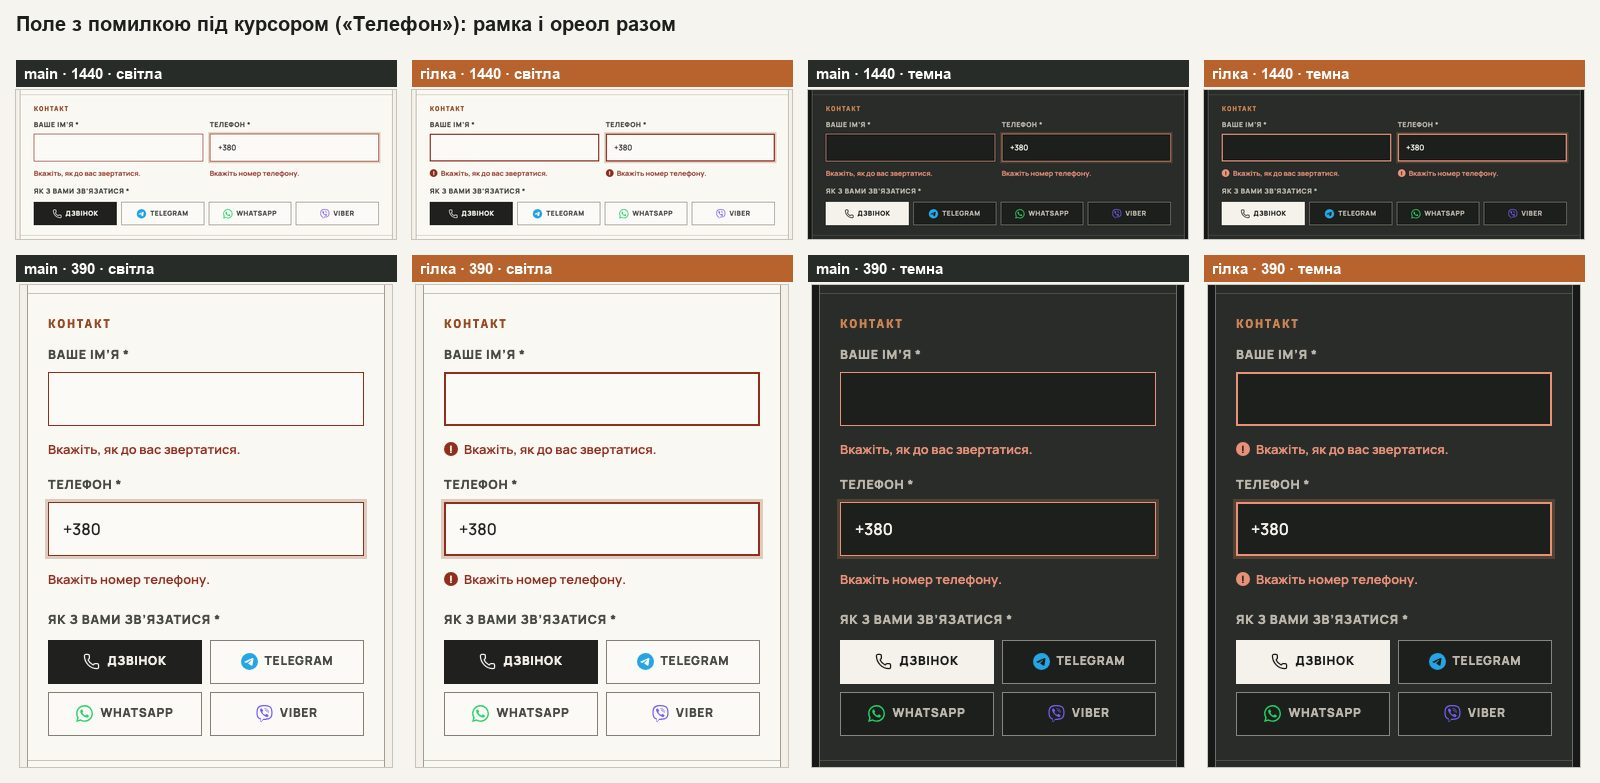
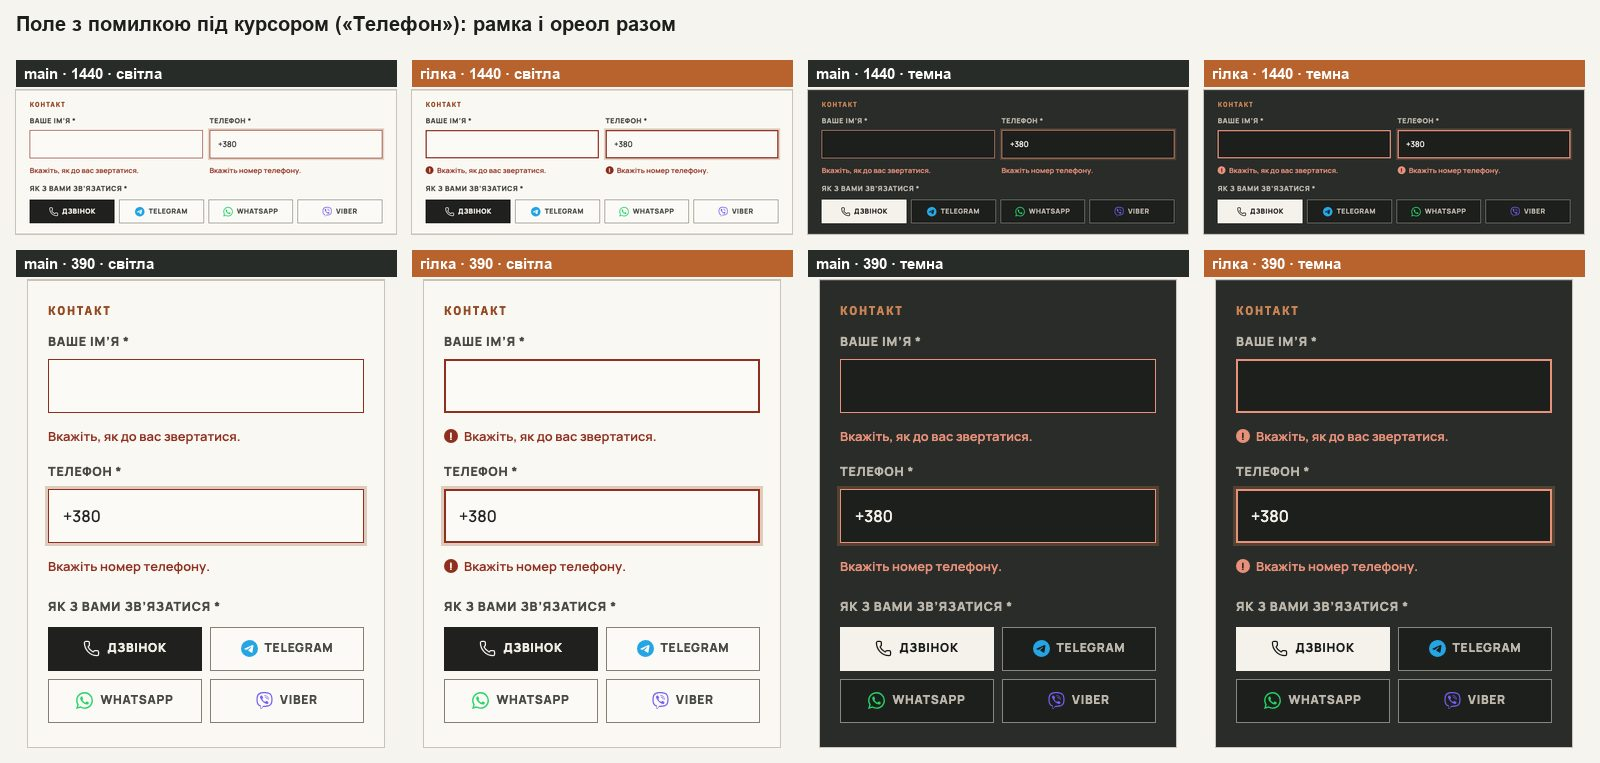
fix(form): знак «!» забирає місце лише в першому рядку, знак згоди — у колонці квадратика (W3-07, правка після рев’ю)
Перша версія ставила знак окремою колонкою в кожному рядку повідомлення,
тож на /pro-nas форма з помилками ставала вищою на 18 px на 98 ширинах
з 1601 (322–341, 367–386, 464–483, 801–838 px). Тепер знак під полем
плаває в першому рядку, як у прототипі брифу, а знак згоди стоїть під
квадратиком: зайвий рядок лишився тільки на 367–386 px, як і в прототипі.
Новий тест перевіряє рядки повідомлень на 375, 470, 820 і 1440 px;
handoff і кадри оновлено.

diff --git a/app/globals.css b/app/globals.css
@@ -597,7 +597,9 @@ body:has(main:is([data-home="v2"], .about-page)) {
 .inquiry-consent input:focus-visible { outline: 3px solid var(--focus-ring); outline-offset: 3px; }
 .inquiry-consent > span { color: var(--color-text-muted) !important; font-size: 13px !important; font-weight: 500 !important; line-height: 1.55; letter-spacing: 0 !important; text-transform: none !important; }
 .inquiry-consent a { color: var(--color-accent-strong); font-weight: 750; text-decoration: underline; text-underline-offset: 3px; }
-.inquiry-consent > small { grid-column: 2; margin-top: -4px; color: var(--color-error); font-size: 13px; font-weight: 750; line-height: 1.45; }
+/* the message spans both columns, mirroring them: its «!» (W3-07, beside .inquiry-field-error) under the box, its words
+   under the text at their full width */
+.inquiry-consent > small { display: grid; grid-column: 1 / -1; grid-template-columns: 18px minmax(0, 1fr); column-gap: 10px; align-items: start; margin-top: -4px; color: var(--color-error); font-size: 13px; font-weight: 750; line-height: 1.45; }
 .inquiry-consent.is-invalid { padding: 10px; background: color-mix(in srgb, var(--color-error) 8%, transparent); border-left: 3px solid var(--color-error); }
 .inquiry-submit-group { min-width: 0; }
 /* Turnstile (interaction-only): zero-height unless Cloudflare asks for an interaction. Its widget
@@ -1711,19 +1713,23 @@ a.route-service:focus-visible { color: var(--color-dark-text); --color-accent-st
 
 /* The form's fields keep their message under them while it stands, as the consent does (07.10); a field focused to fix
    it lands with its label clear of the fixed header, not under it */
-.inquiry-field-error { margin-top: 6px; color: var(--color-error); font: 600 13px/1.4 var(--font-manrope), sans-serif; }
+.inquiry-field-error { display: flow-root; margin-top: 6px; color: var(--color-error); font: 600 13px/1.4 var(--font-manrope), sans-serif; }
 .inquiry-form label.is-invalid :is(input, select) { border-color: var(--color-error); }
 /* An error is told from the copper titles beside it by more than its colour, which stays (25.10, W3-07 · PDO-86 B): each
-   message, the consent's too, opens with a «!» in a 14 px disc of the error colour — the words beside it, not under it —
-   and an invalid field is framed 2 px: its 1 px border and 1 px inside it, so the field does not grow. With the cursor in
-   it the focus halo stays round the frame. The mark is not read out: the message says it. Forced colours would paint the
-   disc in the page's own colour, so there it takes the text's. */
-.inquiry-field-error, .inquiry-consent > small { display: grid; grid-template-columns: 14px minmax(0, 1fr); column-gap: 6px; align-items: start; }
+   message, the consent's too, opens with a «!» in a 14 px disc of the error colour, and an invalid field is framed 2 px:
+   its 1 px border and 1 px inside it, so the field does not grow. With the cursor in it the focus halo stays round the
+   frame. The mark is not read out: the message says it. Forced colours would paint the disc in the page's own colour, so
+   there it takes the text's.
+   A field's mark floats on the message's first line, as in the brief's frame: it takes 20 px from that line only, and no
+   line grows (the message is a flow root, so the float stays in it). The consent's mark stands in the checkbox's column,
+   so its words keep their full width (sweep 320–1920 px). */
 .inquiry-field-error::before, .inquiry-consent > small::before {
   display: grid; place-items: center; width: 14px; height: 14px; margin-top: 2px; border-radius: 50%;
   color: var(--color-bg); background: var(--color-error); font: 800 10px/1 var(--font-manrope), sans-serif;
   content: '!'; content: '!' / '';
 }
+.inquiry-field-error::before { float: left; margin-right: 6px; }
+.inquiry-consent > small::before { justify-self: center; }
 @media (forced-colors: active) {
   .inquiry-field-error::before, .inquiry-consent > small::before { forced-color-adjust: none; color: Canvas; background: CanvasText; }
 }

diff --git a/tests/e2e/inquiry-error-focus.spec.ts b/tests/e2e/inquiry-error-focus.spec.ts
@@ -141,6 +141,55 @@ for (const scheme of ['light', 'dark'] as const) {
   });
 }
 
+// The mark costs a message as little room as it can (review 25.10): a field's mark floats on the first line only, as in the
+// brief's frame, and the consent's mark stands in the checkbox's column. At 367–386 px the direction message of /pro-nas
+// («Оберіть напрям робіт або «Ще не визначено».») runs onto a second line, as it does in the brief's prototype: 375 shows
+// that second line starting under the mark. 470 and 820 are where a mark beside the consent's words had pushed them onto
+// one more line.
+test('the mark takes room on the first line only, no line grows, and the consent\'s words keep their full width', async ({ page }) => {
+  for (const width of [375, 470, 820, 1440]) {
+    const form = await openForm(page, width);
+    await raiseErrors(form);
+    await page.evaluate(() => (document.activeElement as HTMLElement | null)?.blur());
+    const messages = await form.locator('.inquiry-field-error, .inquiry-consent > small').evaluateAll(async (elements) => {
+      // the reduced-motion reset gives a new message's mark a .01ms transition: measure two frames on, where it has landed
+      await new Promise((resolve) => requestAnimationFrame(() => requestAnimationFrame(resolve)));
+      return elements.map((message) => {
+        const range = document.createRange();
+        range.selectNodeContents(message);
+        const lines = new Map<number, number>();
+        for (const rect of range.getClientRects()) {
+          if (rect.width === 0) continue;
+          const top = Math.round(rect.top);
+          lines.set(top, Math.min(lines.get(top) ?? Infinity, rect.left));
+        }
+        const box = message.getBoundingClientRect();
+        const consentText = message.closest('.inquiry-consent')?.querySelector(':scope > span');
+        return {
+          text: message.textContent,
+          consent: !!consentText,
+          starts: [...lines.entries()].sort(([a], [b]) => a - b).map(([, left]) => left - box.left),
+          textStart: consentText ? consentText.getBoundingClientRect().left - box.left : null,
+          height: box.height,
+          lineHeight: Number.parseFloat(getComputedStyle(message).lineHeight),
+        };
+      });
+    });
+    expect(messages).toHaveLength(4);
+    for (const message of messages) {
+      const where = `${width}px «${message.text}»`;
+      expect(message.height, `${where}: no line grows`).toBeCloseTo(message.starts.length * message.lineHeight, 0);
+      if (message.consent) {
+        for (const start of message.starts) expect(start, `${where}: the words under the consent's text`).toBeCloseTo(message.textStart ?? -1, 1);
+      } else {
+        expect(message.starts[0], `${where}: the first line after the mark`).toBeCloseTo(20, 0);
+        for (const start of message.starts.slice(1)) expect(start, `${where}: a later line under the mark`).toBeCloseTo(0, 1);
+      }
+    }
+    if (width === 375) expect(messages.filter((message) => !message.consent && message.starts.length > 1), 'a field message on two lines').not.toHaveLength(0);
+  }
+});
+
 test('an invalid field keeps the focus halo round its frame — marked by the form or found by the browser', async ({ page }) => {
   let form = await openForm(page, 1440);
   const halo = await formHalo(page);
